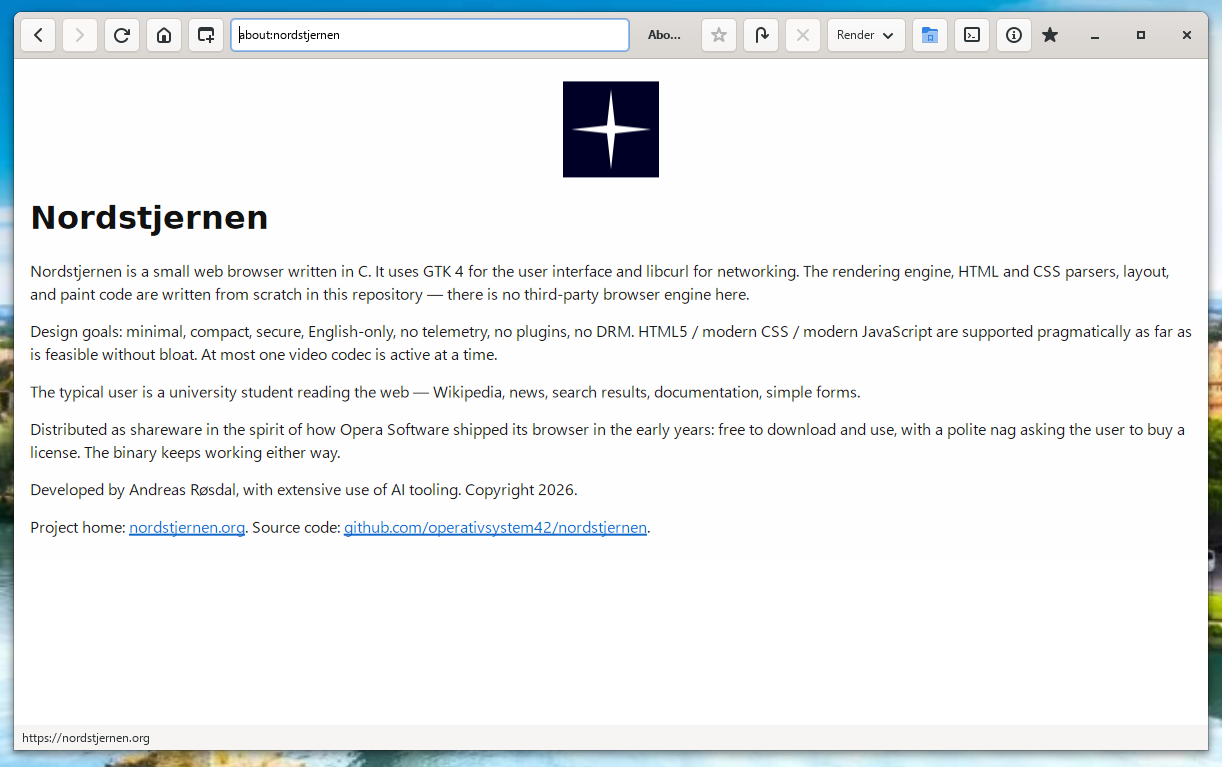
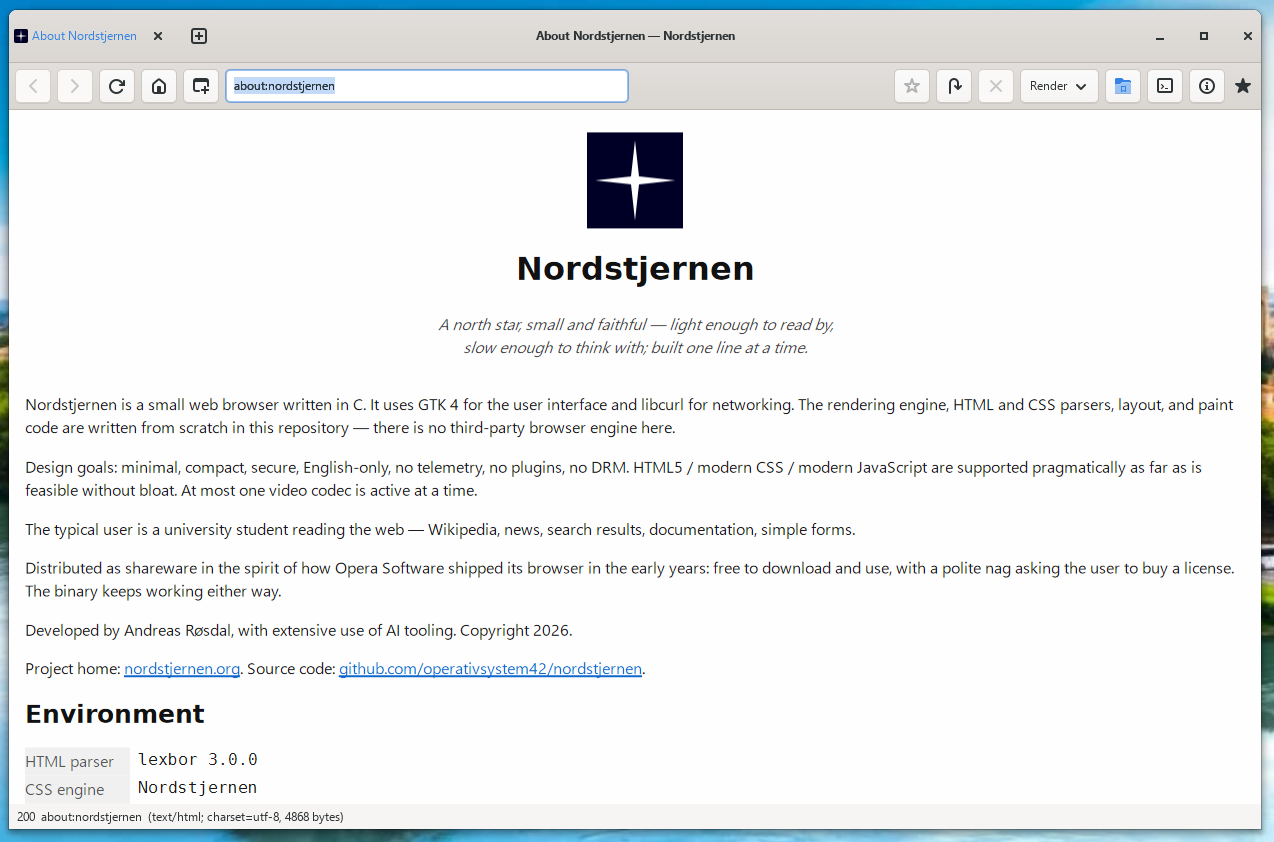
fixes

Changed region(s): [[0.0, 0.0, 1.0, 1.0]]

diff --git a/src/net.c b/src/net.c
@@ -683,7 +683,8 @@ nd_header_cb(char *buffer, size_t size, size_t nitems, void *userdata)
 static const char k_about_nordstjernen_prefix[] =
     "<!doctype html><html><head><title>About Nordstjernen</title>"
     "<style>"
-    ".poem{font-style:italic}"
+    ".poem{font-style:italic;text-align:center;color:#444;"
+    "margin:1.5em 0 2em 0}"
     "table.env{border-collapse:collapse;margin:0.5em 0}"
     "table.env th{text-align:left;font-weight:normal;color:#555;"
     "padding:0.1em 1em 0.1em 0;white-space:nowrap}"
@@ -698,7 +699,11 @@ static const char k_about_nordstjernen_prefix[] =
     "<polygon points='48,8 52,44 88,48 52,52 48,88 44,52 8,48 44,44' "
     "fill='%23ffffff'/></svg>\">"
     "</p>"
-    "<h1>Nordstjernen</h1>"
+    "<h1 style=\"text-align:center\">Nordstjernen</h1>"
+    "<p class=\"poem\">"
+    "A north star, small and faithful — light enough to read by,<br>"
+    "slow enough to think with; built one line at a time."
+    "</p>"
     "<p>Nordstjernen is a small web browser written in C. It uses "
     "GTK 4 for the user interface and libcurl for networking. The "
     "rendering engine, HTML and CSS parsers, layout, and paint code "
@@ -723,6 +728,7 @@ static const char k_about_nordstjernen_prefix[] =
     "<table class=\"env\">";
 
 static const char k_about_nordstjernen_credits[] =
+    "</table>"
     "<h2>Credits and third-party software</h2>"
     "<p>Nordstjernen is built on top of these libraries. Their "
     "copyright notices and license texts are reproduced in "
@@ -768,24 +774,16 @@ static const char k_about_nordstjernen_credits[] =
 
 static const char k_about_nordstjernen_suffix[] =
     "</table>"
-    "<p id=\"js-line\"></p>"
-    "<p id=\"js-stats\"></p>"
+    "<p id=\"js-status\" style=\"color:#888;font-size:0.9em;"
+    "margin-top:2em\"></p>"
     "<script>\n"
-    "const stanza = [\n"
-    "  'A north star, small and faithful — light enough to read by,',\n"
-    "  'slow enough to think with; built one line at a time.'\n"
-    "];\n"
-    "const line = document.getElementById('js-line');\n"
-    "line.textContent = stanza[0];\n"
-    "line.classList.add('poem');\n"
-    "const same = (document.getElementById('js-line') === line);\n"
+    "const status = document.getElementById('js-status');\n"
+    "const same = (document.getElementById('js-status') === status);\n"
     "const paragraphs = document.querySelectorAll('p').length;\n"
     "setTimeout(function () {\n"
-    "  const stats = document.getElementById('js-stats');\n"
-    "  stats.textContent = stanza[1] + '  [' +\n"
-    "    (same ? 'JS_OK' : 'JS_BAD') +\n"
-    "    ', ' + paragraphs + ' paragraphs]';\n"
-    "  stats.classList.add('poem');\n"
+    "  status.textContent =\n"
+    "    'JS: ' + (same ? 'OK' : 'BAD') +\n"
+    "    ' \\u2014 ' + paragraphs + ' paragraphs rendered.';\n"
     "}, 0);\n"
     "</script>"
     "</body></html>";
